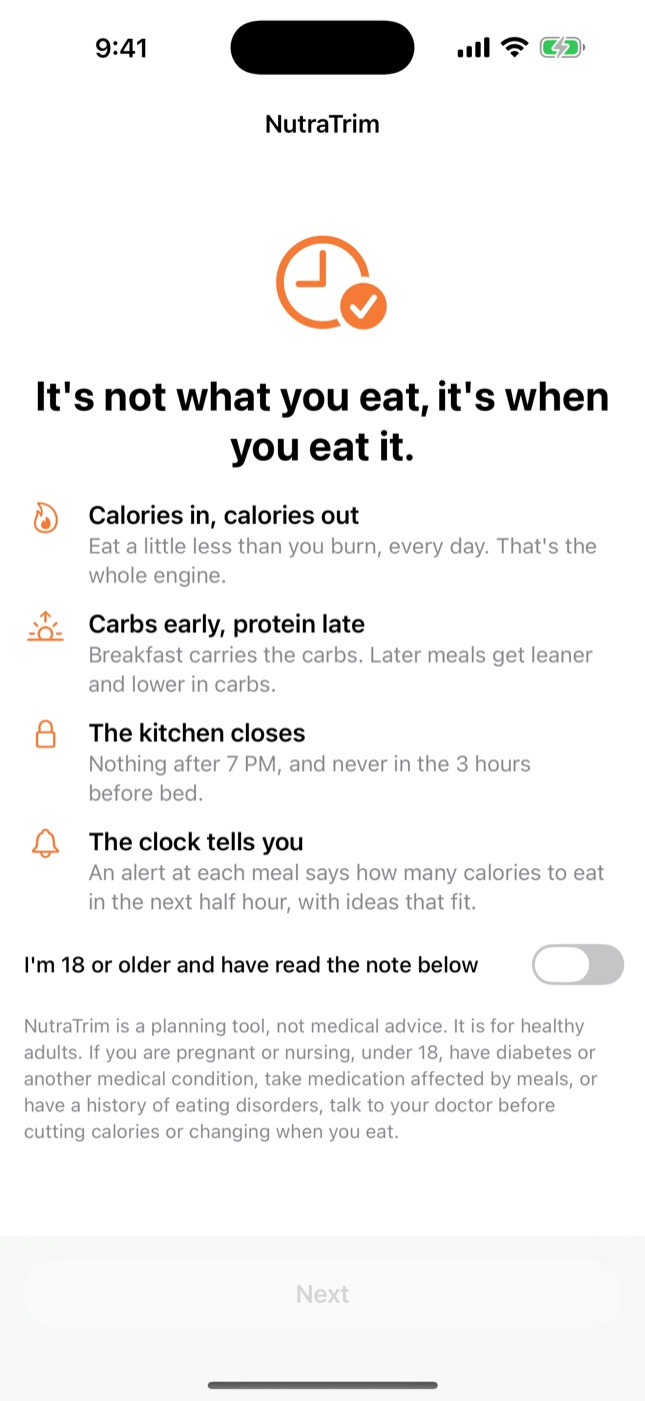
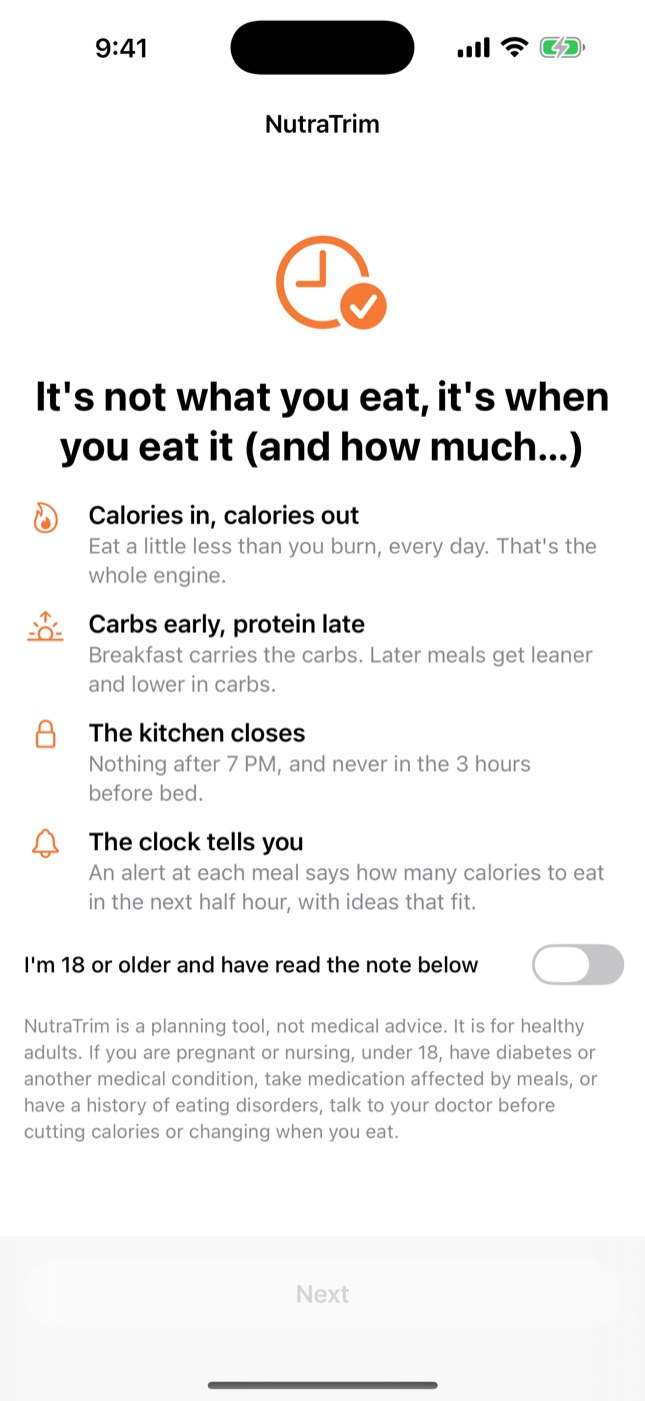
Slogan: ...when you eat it (and how much...)

Changed region(s): [[0.093, 0.3069, 0.8372, 0.3376], [0.8682, 0.3069, 0.8992, 0.3376]]

diff --git a/index.html b/index.html
@@ -3,13 +3,13 @@
 <head>
 <meta charset="utf-8">
 <meta name="viewport" content="width=device-width, initial-scale=1">
-<title>NutraTrim: It's not what you eat, it's when you eat it</title>
+<title>NutraTrim: It's not what you eat, it's when you eat it (and how much...)</title>
 <meta name="description" content="NutraTrim is the meal clock for losing weight. Calories in, calories out, carbs early, kitchen closed by 7. Reminders tell you when to eat and how much, and you can scan your plate to see how much of it fits.">
 <meta name="theme-color" content="#17163a">
 <link rel="canonical" href="https://nutratrim.net/">
 <meta property="og:type" content="website">
 <meta property="og:url" content="https://nutratrim.net/">
-<meta property="og:title" content="NutraTrim: It's not what you eat, it's when you eat it">
+<meta property="og:title" content="NutraTrim: It's not what you eat, it's when you eat it (and how much...)">
 <meta property="og:description" content="The meal clock for losing weight. Calories in, calories out, carbs early, kitchen closed by 7.">
 <meta property="og:image" content="https://nutratrim.net/img/og.jpg">
 <meta name="twitter:card" content="summary_large_image">
@@ -42,6 +42,7 @@ h1, h2, h3 { font-family: var(--display); line-height: 1.05; margin: 0; letter-s
 h2 { font-size: clamp(34px, 4.6vw, 54px); font-weight: 800; }
 h3 { font-size: 24px; font-weight: 800; }
 em.when { font-style: italic; color: var(--orange-2); }
+.aside { display: block; margin-top: .18em; font-size: .42em; font-weight: 600; font-style: italic; letter-spacing: 0; color: rgba(255,255,255,.72); }
 .lede { font-size: clamp(18px, 1.6vw, 21px); color: var(--muted); max-width: 640px; }
 
 /* Nav */
@@ -263,7 +264,7 @@ footer .disclaimer { grid-column: 1 / -1; border-top: 1px solid rgba(255,255,255
   <div class="wrap hero-grid">
     <div>
       <span class="pill"><b>NEW</b> The meal clock for losing weight</span>
-      <h1>It's not what you eat. It's <em class="when">when</em> you eat it.</h1>
+      <h1>It's not what you eat. It's <em class="when">when</em> you eat it <span class="aside">(and how much...)</span></h1>
       <p class="lede">NutraTrim turns weight loss into a clock. Calories in, calories out, carbs early, kitchen closed by 7. It plans every meal, then tells you when it's time and how much to eat.</p>
       <div class="badges">
         <a class="badge store" data-store="appStore" href="#" aria-label="Download on the App Store"><img src="https://toolbox.marketingtools.apple.com/api/v2/badges/download-on-the-app-store/black/en-us" alt="Download on the App Store" width="162" height="54"></a>
@@ -411,7 +412,7 @@ footer .disclaimer { grid-column: 1 / -1; border-top: 1px solid rgba(255,255,255
 
 <section class="quote">
   <div class="wrap reveal">
-    <blockquote>It's not what you eat.<br>It's <em class="when">when</em> you eat it.</blockquote>
+    <blockquote>It's not what you eat.<br>It's <em class="when">when</em> you eat it <span class="aside">(and how much...)</span></blockquote>
     <p>Eat a little less than you burn. Front-load your day. Close the kitchen. Repeat.</p>
   </div>
 </section>
@@ -568,7 +569,7 @@ heroTick(); setInterval(heroTick, 1000);
 const NOTES = [
   ["now", "Time to eat! 🍽 Breakfast", "Eat 600 calories in the next half hour. Try: Greek yogurt berry bowl."],
   ["now", "Time to eat! 🍽 Lunch", "Eat 500 calories in the next half hour, keep carbs around 44 g."],
-  ["now", "Kitchen's closed 🔒", "No more food until 7:00 AM tomorrow. It's not what you eat, it's when you eat it."],
+  ["now", "Kitchen's closed 🔒", "No more food until 7:00 AM tomorrow. It's not what you eat, it's when you eat it (and how much...)"],
   ["now", "Time to eat! 🍽 Dinner", "Eat 400 calories in the next half hour. Try: salmon and asparagus."],
 ];
 function noteHTML([when, title, body]) {
